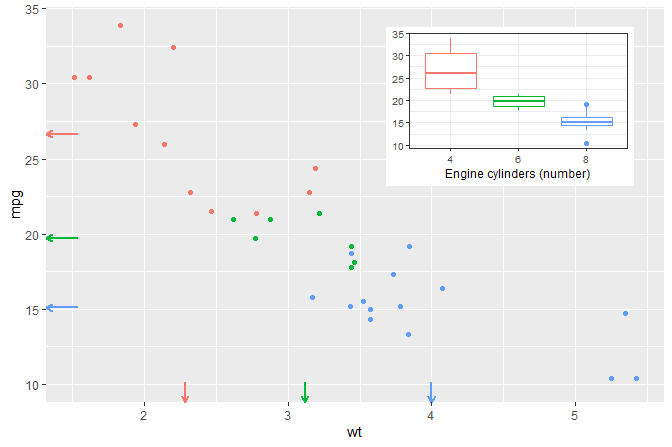
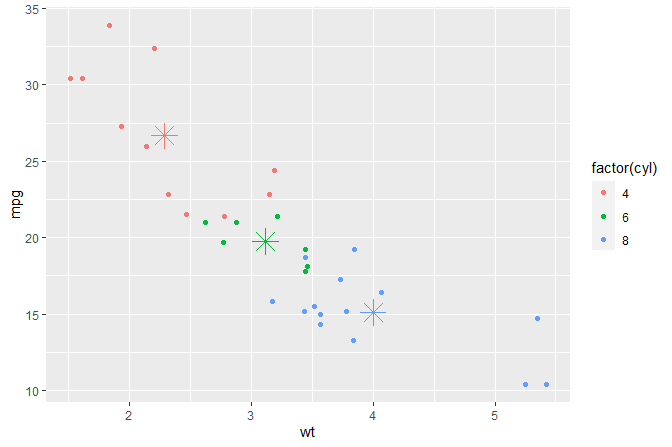
Add examples and update README.Rmd

diff --git a/README.md b/README.md
@@ -12,8 +12,8 @@ status](https://github.com/aphalo/ggpp/workflows/R-CMD-check/badge.svg)](https:/
 
 Package ‘**ggpp**’ provides a set of building blocks that extend the
 Grammar of Graphics implemented in package ‘ggplot2’ (>= 3.0.0). New
-geoms support insets in plots, marginal marks and the use of native plot
-coordinates (npc). Position functions implement new approaches to
+“geoms” support insets in plots, marginal marks and the use of native
+plot coordinates (npc). Position functions implement new approaches to
 nudging usable with any geometry, but especially useful together with
 `geom_text_linked()`, `geom_text_repel()` and `geom_label_repel()`.
 
@@ -58,42 +58,70 @@ Four statistics, `stat_dens2d_filter()`, `stat_dens2d_label()`,
 selective labelling of observations based on the local 2D density of
 observations in a panel. Another two statistics,
 `stat_dens1d_filter_g()` and `stat_dens1d_filter_g()` compute the
-density by group instead of by plot panel. These six stats are designed
-to work well together with `geom_text_repel()` and `geom_label_repel()`
-from package ‘ggrepel’.
+density by group instead of by plot panel. These six statistics are
+designed to work well together with `geom_text_repel()` and
+`geom_label_repel()` from package ‘ggrepel’.
 
-The statistics `stat_apply_panel()` and `stat_apply_group()` can be
-useful for applying arbitrary functions returning numeric vectors. They
-are specially useful with functions lime `cumsum()`, `cummax()` and
-`diff()`.
+The statistics `stat_apply_panel()` and `stat_apply_group()` are useful
+for applying arbitrary functions returning numeric vectors like
+`cumsum()`, `cummax()` and `diff()`. Statistics `stat_centroid()` and
+`stat_summary_xy()` allow computation of summaries on both *x* and *y*
+and passing them to a geom.
 
 ## Position functions
 
-New position functions implementing different flavours of nudging are
+Position functions implementing different flavours of nudging are
 provided: `position_nudge_keep()`, `position_nudge_to()`,
 `position_nudge_center()` and `position_nudge_line()`. These last two
 functions make it possible to apply nudging that varies automatically
 according to the relative position of points with respect to arbitrary
 points or lines, or with respect to a polynomial or smoothing spline
-fitted on-the-fly to the the observations. In contrast to
-`ggplot2::position_nudge()` all these functions return the repositioned
-and original *x* and *y* coordinates.
+fitted on-the-fly to the the observations.
+
+Position functions `position_stack_and_nudge()`,
+`position_stack_and_dodge()` and `position_stack_and_dodge2()` each
+combines the roles of two *position* functions. They make it possible to
+easily nudge labels in plot layers that use stacking or dodging.
+
+In contrast to `ggplot2::position_nudge()` all these functions return
+the repositioned and original *x* and *y* coordinates. This makes them
+compatible with the repulsive geometries from package ‘ggrepel’ (>=
+0.9.1) as well as with `geom_text_linked()` from this package that draw
+segments or arrows connecting the original positions to the displaced
+positions. They remain backwards compatible and be used in all
+geometries that have a `position` formal parameter.
+
+## Justification
+
+Justifications `"outward_mean"`, `"inward_mean"`, `"outward_median"` and
+`"inward_median"` implementing outward and inward justification relative
+to the centroid of the data instead of to the center of the *x* or *y*
+scales. Justification outward or inward from an arbitrary origin is also
+supported.
 
 ## History
 
 This package is a “spin-off” from package ‘ggpmisc’ containing
 extensions to the grammar originally written for use wihtin ‘ggpmisc’.
-As ‘ggpmisc’ has grown in size, spliting it into two packages seems the
-best option. For the time being, package ‘ggpmisc’ will import and
-re-export visible defintions from ‘ggpp’.
+As ‘ggpmisc’ had grown in size, splitting it into two packages was
+necessary to easy development and maintenance and to facilitate imports
+into other packages. For the time being, package ‘ggpmisc’ imports and
+re-exports all visible definitions from ‘ggpp’.
 
 ## Examples
+
+The plots below exemplify some of the things that ‘ggpp’ makes possible
+or makes easier to code compared to ‘ggplot’ used by itself. Additional
+examples including several combining ‘ggpp’ and ‘ggrepel’ are provided
+in the package vignette.
 
 ``` r
 library(ggpp)
 library(ggrepel)
 library(dplyr)
 ```
+
+### Insets
 
 A plot with an inset table.
 
@@ -114,9 +142,11 @@ ggplot(mtcars, aes(wt, mpg, colour = factor(cyl))) +
 
 ![](man/figures/README-readme-03-1.png)<!-- -->
 
-A plot with an inset plot. With the inset plot positioned using native
-plot coordinates (npc) and using keywords insted of numerical values in
-the range 0..1 which are also accepted.
+A plot with an inset plot.
+
+Inset plot positioned using native plot coordinates (npc) and using
+keywords insted of numerical values in the range 0..1 which are also
+accepted.
 
 ``` r
 p <- ggplot(mtcars, aes(factor(cyl), mpg, colour = factor(cyl))) +
@@ -130,27 +160,52 @@ ggplot(mtcars, aes(wt, mpg, colour = factor(cyl))) +
   expand_limits(y = 0, x = 0)
 ```
 
-![](man/figures/README-readme-06-1.png)<!-- --> Marginal markings
+![](man/figures/README-readme-06-1.png)<!-- -->
+
+### Centroids
+
+Means computed on-the-fly and shown as asterisks.
 
 ``` r
-data.tb <- mtcars %>%
-  group_by(cyl) %>%
-  summarise(wt = mean(wt), mpg = mean(mpg))
-
 ggplot(mtcars, aes(wt, mpg, colour = factor(cyl))) +
-  geom_x_margin_arrow(data = data.tb,
-                      aes(xintercept = wt, color = factor(cyl)),
-                      arrow.length = 0.05) +
-  geom_y_margin_arrow(data = data.tb,
-                      aes(yintercept = mpg, color = factor(cyl)),
-                      arrow.length = 0.05) +
-  annotate("plot_npc", npcx = "right", npcy = "top", 
-           label = p + theme(axis.title.y = element_blank())) +
-  expand_limits(y = 10) +
-  geom_point(show.legend = FALSE) 
+  geom_point() +
+  stat_centroid(shape = "asterisk", size = 6)
 ```
 
-![](man/figures/README-unnamed-chunk-1-1.png)<!-- --> ## Installation
+![](man/figures/README-unnamed-chunk-1-1.png)<!-- -->
+
+Medians computed on-the-fly displayed marginal arrows.
+
+``` r
+ggplot(mtcars, aes(wt, mpg, colour = factor(cyl))) +
+  geom_point() +
+  stat_centroid(geom = "y_margin_arrow", .fun = median,
+                aes(yintercept = after_stat(y)), arrow.length = 0.05)
+```
+
+![](man/figures/README-unnamed-chunk-2-1.png)<!-- -->
+
+### Nudging and stacking combined
+
+``` r
+df <- data.frame(x1 = c(1, 2, 1, 3, -1),
+                 x2 = c("a", "a", "b", "b", "b"),
+                 grp = c("some long name", "other name", "some name",
+                         "another name", "a name"))
+
+# Add labels to a horizontal column plot (stacked by default)
+ggplot(data = df, aes(x2, x1, group = grp)) +
+  geom_col(aes(fill = grp), width=0.5) +
+  geom_hline(yintercept = 0) +
+  geom_text(
+    aes(label = grp),
+    position = position_stack_and_nudge(vjust = 1, y = -0.2)) +
+  theme(legend.position = "none")
+```
+
+![](man/figures/README-unnamed-chunk-3-1.png)<!-- -->
+
+## Installation
 
 Installation of the most recent stable version from CRAN:
 
